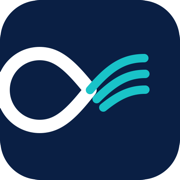
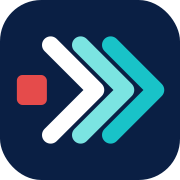
feat: apply N12A-4 brand identity

diff --git a/src/components/logo.tsx b/src/components/logo.tsx
@@ -1,14 +1,93 @@
-import Image from "next/image";
+type BrandMarkProps = {
+  className?: string;
+};
 
-export function Logo({ eager = false }: { eager?: boolean }) {
+export function BrandMark({ className = "size-8" }: BrandMarkProps) {
   return (
-    <Image
-      src="/getfrp-logo.png"
-      alt="getfrp"
-      width={620}
-      height={140}
-      className="h-8 w-auto mix-blend-multiply"
-      loading={eager ? "eager" : "lazy"}
-    />
+    <svg
+      aria-hidden="true"
+      className={className}
+      viewBox="0 0 48 48"
+      xmlns="http://www.w3.org/2000/svg"
+    >
+      <rect width="48" height="48" rx="11" fill="#0A1F44" />
+      <rect x="4.5" y="20" width="8" height="8" rx="1.5" fill="#E54B4B" />
+      <path
+        d="m13.5 12 12 12-12 12"
+        fill="none"
+        stroke="#FFFFFF"
+        strokeLinecap="round"
+        strokeLinejoin="round"
+        strokeWidth="4.6"
+      />
+      <path
+        d="m21.5 12 12 12-12 12"
+        fill="none"
+        stroke="#7BE4E1"
+        strokeLinecap="round"
+        strokeLinejoin="round"
+        strokeWidth="4.6"
+      />
+      <path
+        d="m29.5 12 12 12-12 12"
+        fill="none"
+        stroke="#19C3C8"
+        strokeLinecap="round"
+        strokeLinejoin="round"
+        strokeWidth="4.6"
+      />
+    </svg>
+  );
+}
+
+function BrandRoute() {
+  return (
+    <svg
+      aria-hidden="true"
+      className="h-7 w-[43px] shrink-0"
+      viewBox="0 0 62 40"
+      xmlns="http://www.w3.org/2000/svg"
+    >
+      <rect x="1" y="16" width="9" height="9" rx="1.6" fill="#E54B4B" />
+      <path
+        d="m17 5 17 15-17 15"
+        fill="none"
+        stroke="#0A1F44"
+        strokeLinecap="round"
+        strokeLinejoin="round"
+        strokeWidth="5.2"
+      />
+      <path
+        d="m27 5 17 15-17 15"
+        fill="none"
+        stroke="#123F8C"
+        strokeLinecap="round"
+        strokeLinejoin="round"
+        strokeWidth="5.2"
+      />
+      <path
+        d="m37 5 17 15-17 15"
+        fill="none"
+        stroke="#19C3C8"
+        strokeLinecap="round"
+        strokeLinejoin="round"
+        strokeWidth="5.2"
+      />
+    </svg>
+  );
+}
+
+export function Logo() {
+  return (
+    <span
+      className="inline-flex shrink-0 items-center whitespace-nowrap text-[24px] leading-none text-brand-navy"
+      aria-label="GetFRP"
+    >
+      <span className="font-bold tracking-[-0.06em]">Get</span>
+      <span className="mx-1.5 inline-flex items-center">
+        <BrandRoute />
+      </span>
+      <span className="font-extrabold tracking-[-0.035em]">FRP</span>
+    </span>
   );
 }

diff --git a/src/lib/og-image.tsx b/src/lib/og-image.tsx
@@ -42,7 +42,7 @@ export function renderOgCard({
           }}
         />
 
-        {/* brand mark */}
+        {/* N12A-4 brand mark: China origin and three composite export layers */}
         <div
           style={{
             display: "flex",
@@ -53,28 +53,14 @@ export function renderOgCard({
             letterSpacing: "-0.01em",
           }}
         >
-          <div
-            style={{
-              width: 32,
-              height: 32,
-              background: "#1b2430",
-              borderRadius: 4,
-              display: "flex",
-              flexDirection: "column",
-              alignItems: "center",
-              justifyContent: "center",
-              gap: 3,
-            }}
-          >
-            <div style={{ width: 20, height: 3, background: "#ffffff" }} />
-            <div
-              style={{ width: 20, height: 3, background: "rgba(255,255,255,0.78)" }}
-            />
-            <div
-              style={{ width: 20, height: 3, background: "rgba(255,255,255,0.52)" }}
-            />
-          </div>
-          <div>getfrp · China FRP marketplace</div>
+          <svg width="32" height="32" viewBox="0 0 48 48">
+            <rect width="48" height="48" rx="11" fill="#0A1F44" />
+            <rect x="4.5" y="20" width="8" height="8" rx="1.5" fill="#E54B4B" />
+            <path d="m13.5 12 12 12-12 12" fill="none" stroke="#FFFFFF" strokeWidth="4.6" strokeLinecap="round" strokeLinejoin="round" />
+            <path d="m21.5 12 12 12-12 12" fill="none" stroke="#7BE4E1" strokeWidth="4.6" strokeLinecap="round" strokeLinejoin="round" />
+            <path d="m29.5 12 12 12-12 12" fill="none" stroke="#19C3C8" strokeWidth="4.6" strokeLinecap="round" strokeLinejoin="round" />
+          </svg>
+          <div>GetFRP · China composites sourcing</div>
         </div>
 
         {/* category pill */}

diff --git a/src/app/[locale]/layout.tsx b/src/app/[locale]/layout.tsx
@@ -72,10 +72,11 @@ export async function generateMetadata({
     // keyword lists are flagged as over-optimization by some auditors.
     icons: {
       icon: [
-        { url: "/favicon.svg", type: "image/svg+xml" },
-        { url: "/favicon.png", type: "image/png", sizes: "32x32" },
+        { url: "/favicon.svg?v=n12a4", type: "image/svg+xml" },
+        { url: "/favicon.png?v=n12a4", type: "image/png", sizes: "32x32" },
       ],
-      apple: "/apple-icon.png",
+      shortcut: "/favicon.png?v=n12a4",
+      apple: "/apple-icon.png?v=n12a4",
     },
     openGraph: {
       type: "website",
@@ -154,7 +155,7 @@ export default async function LocaleLayout({
                 "@type": "Organization",
                 "@id": `${siteUrl}/#organization`,
                 name: brand,
-                alternateName: ["getfrp"],
+                alternateName: ["getfrp", "GetFRP"],
                 url: siteUrl,
                 logo: `${siteUrl}/getfrp-logo.png`,
                 description,

diff --git a/src/components/layout/header.tsx b/src/components/layout/header.tsx
@@ -27,8 +27,8 @@ export function Header() {
       className="sticky top-0 z-50 w-full border-b border-brand-cool-gray/80 bg-white/95 backdrop-blur"
     >
       <div className="mx-auto flex h-16 max-w-7xl items-center px-4 sm:px-6">
-        <Link href="/" className="flex items-center hover:opacity-85" aria-label="getfrp home">
-          <Logo eager />
+        <Link href="/" className="flex items-center hover:opacity-85" aria-label="GetFRP home">
+          <Logo />
         </Link>
 
         <nav className="ml-auto hidden items-center xl:flex" aria-label="Primary navigation">

diff --git a/src/app/[locale]/opengraph-image.tsx b/src/app/[locale]/opengraph-image.tsx
@@ -17,7 +17,7 @@ const COPY = {
   h1Bottom: "from China, verified.",
   sub: "Product specs · manufacturer profiles · standards · one English RFQ",
   domain: "getfrp.com",
-  brand: "getfrp",
+  brand: "GetFRP",
 } as const;
 
 export default function OpengraphImage() {
